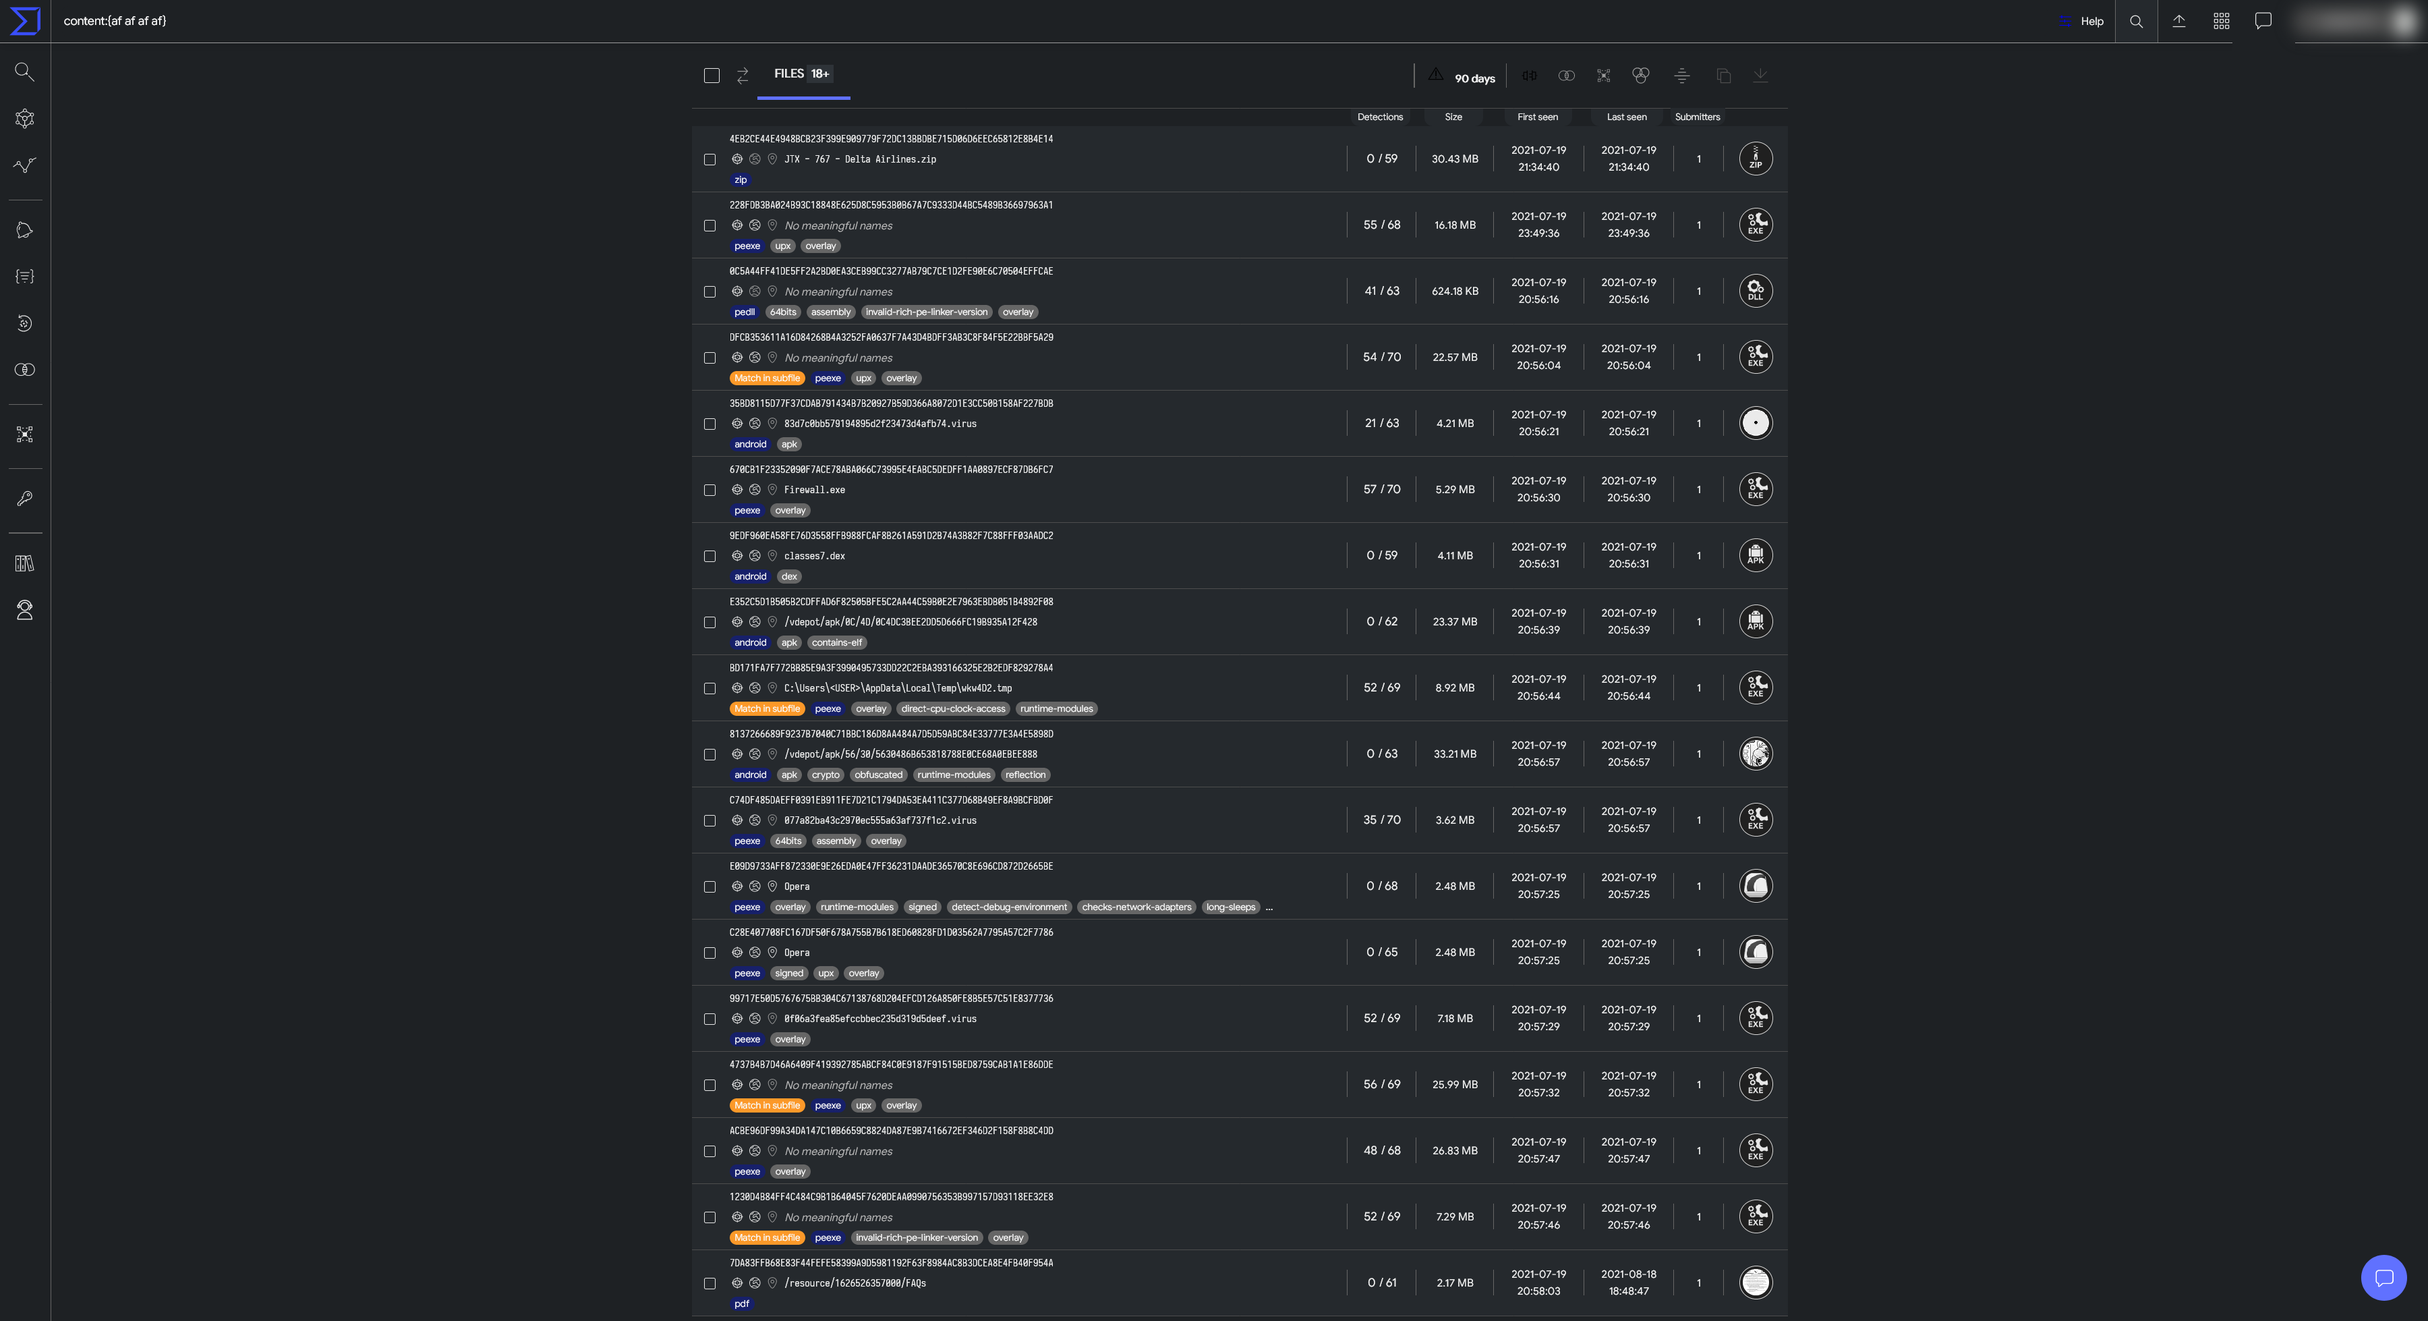
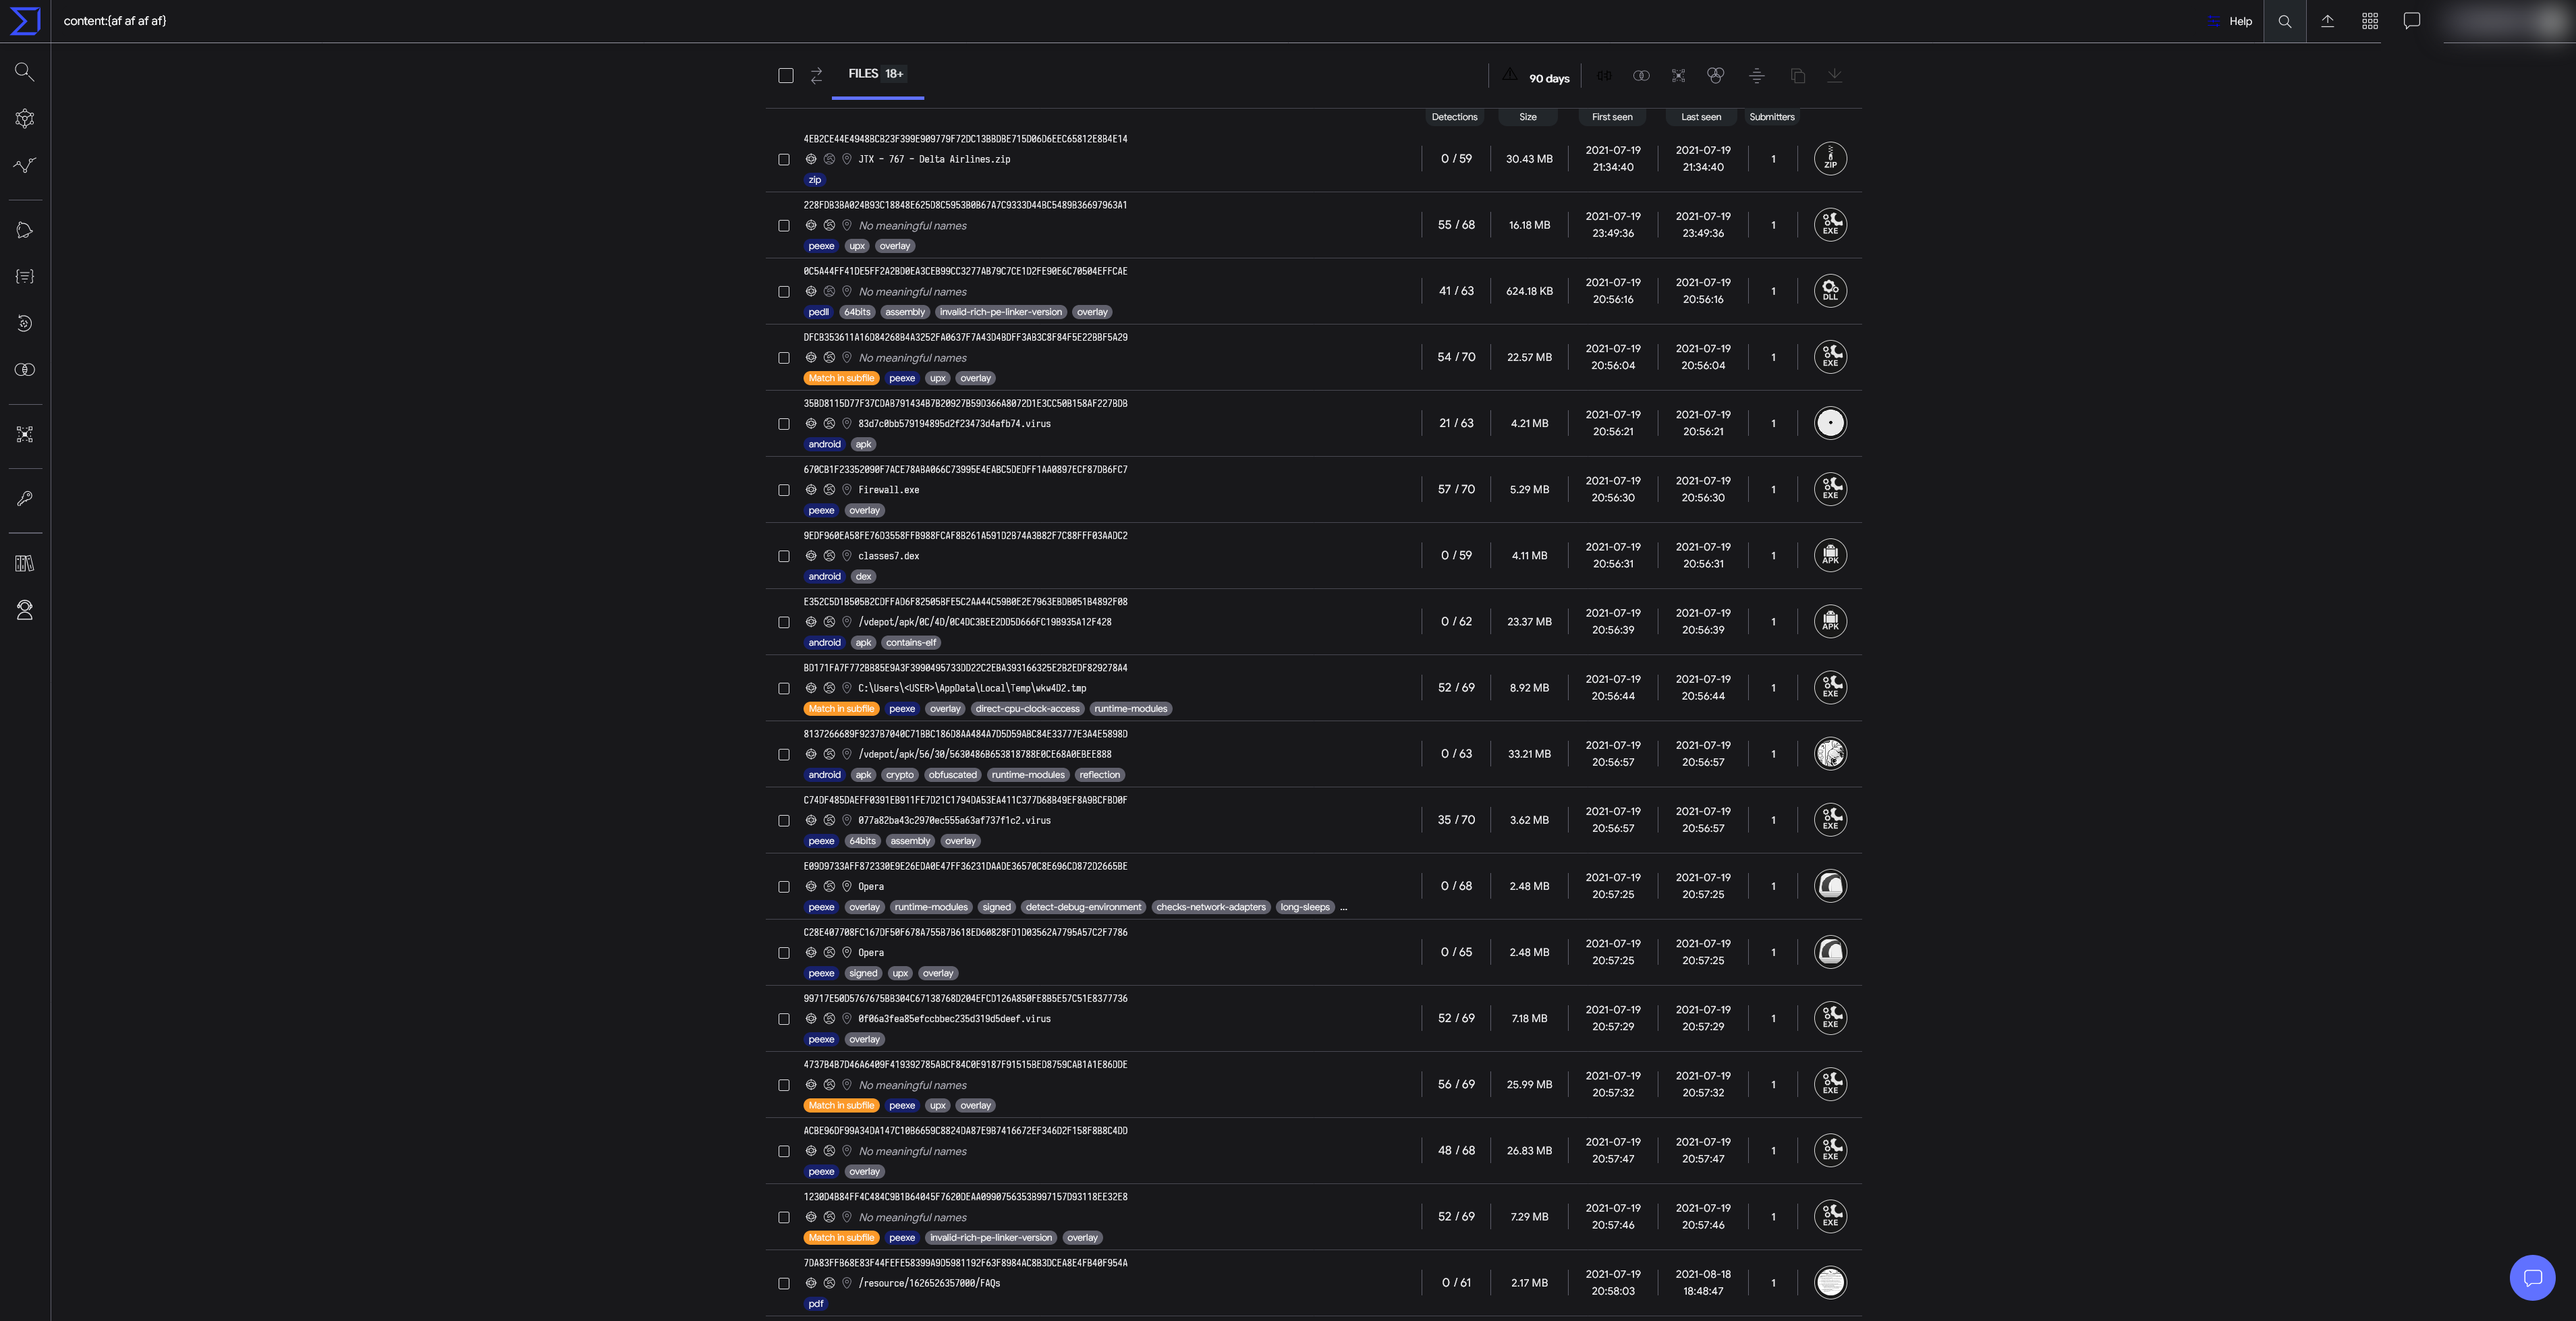
Fix VirusTotal colors to be more consistent ...with the rest of the themes

diff --git a/styles/DarkVirusTotal.css b/styles/DarkVirusTotal.css
@@ -7,7 +7,7 @@
 @namespace    github.com/openstyles/stylus
 @homepageURL  https://github.com/Still34/azura-styles
 @updateURL    https://github.com/Still34/azura-styles/raw/master/styles/DarkVirusTotal.user.css
-@version      1.0.0
+@version      1.1.0
 ==/UserStyle== */
 @-moz-document domain("virustotal.com") {
     :root {
@@ -24,11 +24,11 @@
         --theme-warning-background: hsl(38, 66%, 25%);
         --theme-warning-background-glow-high-contrast: hsl(38, 66%, 25%);
         --neutral-grey: hsl(0, 0%, 50%);
-        --bg-color: hsl(212, 10%, 13%);
-        --bg-color-dark: hsl(212, 10%, 8%);
-        --bg-color-light: hsl(212, 10%, 20%);
-        --bg-color-light-alt: hsl(212, 10%, 16%);
-        --bg-color-highlight: hsl(221, 30%, 20%);
+        --bg-color: hsl(240, 6%, 10%);
+        --bg-color-dark: hsl(240, 6%, 5%);
+        --bg-color-light: hsl(212, 10%, 15%);
+        --bg-color-light-alt: hsl(212, 10%, 18%);
+        --bg-color-highlight: hsl(221, 30%, 25%);
         --bg-color-orange: hsl(36, 53%, 38%);
         --bg-color-blue-light: hsl(226, 46%, 50%);
         --bg-color-blue: hsl(226, 46%, 25%);
@@ -37,19 +37,19 @@
         --bg-color-blue-dark: hsl(226, 64%, 15%);
         --bg-color-dropdown: var(--bg-color-light-alt);
         --link-color: hsl(0, 0, 0);
-        --text-color: #f1f1f1;
-        --text-color-dark: #bbb;
+        --text-color: hsl(200, 4%, 85%);
+        --text-color-dark: hsl(200, 4%, 25%);
         --black: var(--bg-color);
         --white: var(--text-color);
-        --vt-grey-25: var(--bg-color-light);
-        --vt-grey-50: var(--bg-color-light-alt);
-        --vt-grey-100: #4d4d4d;
-        --vt-grey-200: #666666;
-        --vt-grey-300: #9b9b9b;
-        --vt-grey-400: #b3b3b3;
-        --vt-grey-500: #ccc;
-        --vt-grey-600: #e6e6e6;
-        --vt-grey-700: #f2f2f2;
+        --vt-grey-25: var(--bg-color-light-alt);
+        --vt-grey-50: var(--bg-color-light);
+        --vt-grey-100: hsl(240, 6%, 30%);
+        --vt-grey-200: hsl(240, 6%, 40%);
+        --vt-grey-300: hsl(240, 6%, 61%);
+        --vt-grey-400: hsl(240, 6%, 70%);
+        --vt-grey-500: hsl(240, 6%, 80%);
+        --vt-grey-600: hsl(240, 6%, 90%);
+        --vt-grey-700: hsl(240, 6%, 95%);
         --vt-grey-800: #f9f9f9;
         --vt-grey-900: #fdfdfd;
         --vt-blue-900: #ecefff;
@@ -153,9 +153,6 @@
     }
     .row header .description {
         color: var(--text-color) !important;
-    }
-    .row {
-        background: var(--bg-color-light-alt) !important;
     }
     h1,
     h2,
